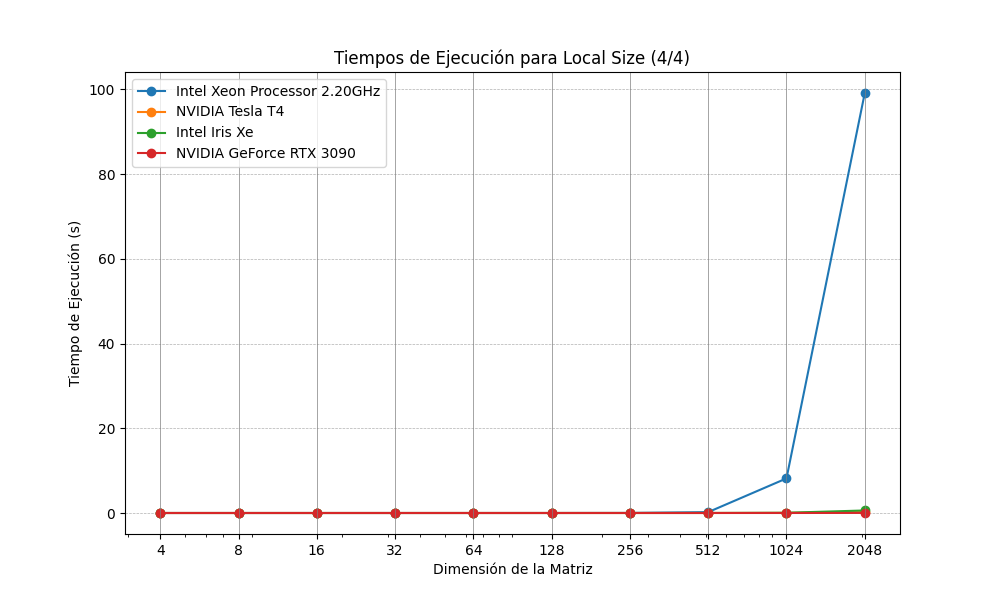
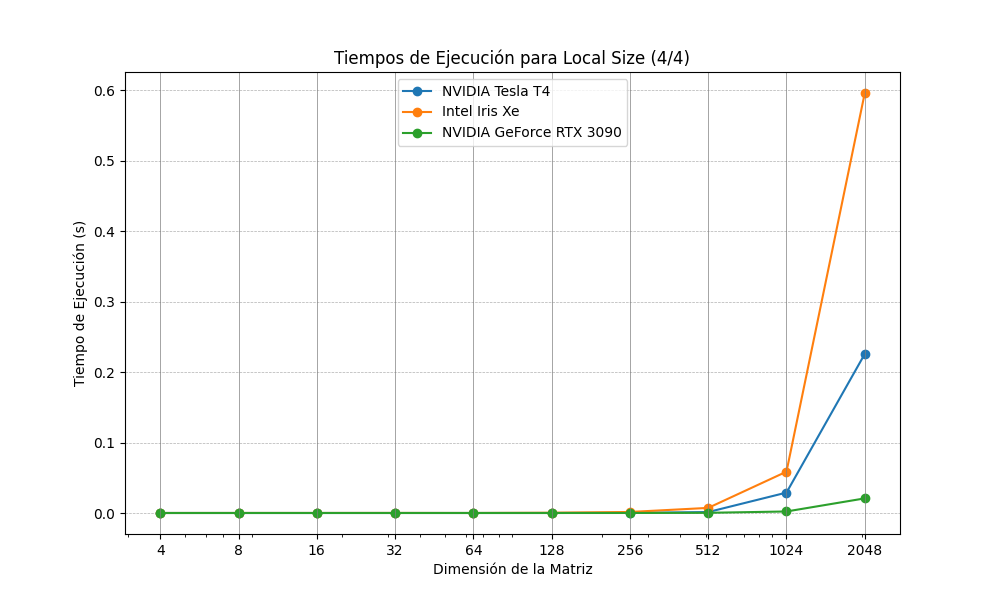
cambios gpus

diff --git a/MULTIPLICACION MATRICES/comparar_3_gpus_cpu.py b/MULTIPLICACION MATRICES/comparar_3_gpus_cpu.py
@@ -18,7 +18,8 @@ def cargar_datos_cpu_gpu(cpu_path, gpu_paths):
         dict: Diccionario con DataFrames para CPU y GPUs.
     """
     data = {}
-    data['CPU'] = pd.read_csv(cpu_path)
+    if cpu_path is not None:
+       data['CPU'] = pd.read_csv(cpu_path)
     for gpu_name, path in gpu_paths.items():
         if path.endswith('.csv'):
             data[gpu_name] = pd.read_csv(path)
@@ -138,7 +139,7 @@ if __name__ == "__main__":
     
 
 
-    data2 = cargar_datos_cpu_gpu(df.empty(), gpu_paths)
+    data2 = cargar_datos_cpu_gpu(None, gpu_paths)
     local_size = "(4/4)"
     dim_0, dim_f = 4, 2048
 
